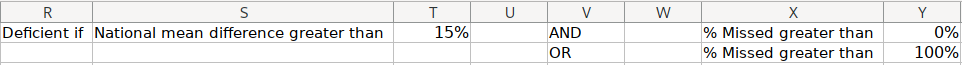
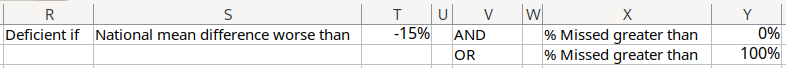
Fix ITE deficient area calculation
The comparison was reversed, it was actually showing well-performing
areas.

diff --git a/ite_basic_missed_topics/ite/ite_section.py b/ite_basic_missed_topics/ite/ite_section.py
@@ -317,7 +317,7 @@ class IteItem(object):
         worksheet.cell(
             row=row,
             column=self.CBY_DEFICIENT_COL,
-            value='=IF(OR(AND({}{} >= {}, {}{} >= {}), {}{} >= {}), "YES", "")'.format(
+            value='=IF(OR(AND({}{} <= {}, {}{} >= {}), {}{} >= {}), "YES", "")'.format(
                 get_column_letter(self.CBY_DIFF_COL),
                 row,
                 DEFICIENT_DIFFERENCE_COL,
@@ -332,7 +332,7 @@ class IteItem(object):
         worksheet.cell(
             row=row,
             column=self.CA1_DEFICIENT_COL,
-            value='=IF(OR(AND({}{} >= {}, {}{} >= {}), {}{} >= {}), "YES", "")'.format(
+            value='=IF(OR(AND({}{} <= {}, {}{} >= {}), {}{} >= {}), "YES", "")'.format(
                 get_column_letter(self.CA1_DIFF_COL),
                 row,
                 DEFICIENT_DIFFERENCE_COL,
@@ -347,7 +347,7 @@ class IteItem(object):
         worksheet.cell(
             row=row,
             column=self.CA2_DEFICIENT_COL,
-            value='=IF(OR(AND({}{} >= {}, {}{} >= {}), {}{} >= {}), "YES", "")'.format(
+            value='=IF(OR(AND({}{} <= {}, {}{} >= {}), {}{} >= {}), "YES", "")'.format(
                 get_column_letter(self.CA2_DIFF_COL),
                 row,
                 DEFICIENT_DIFFERENCE_COL,
@@ -362,7 +362,7 @@ class IteItem(object):
         worksheet.cell(
             row=row,
             column=self.CA3_DEFICIENT_COL,
-            value='=IF(OR(AND({}{} >= {}, {}{} >= {}), {}{} >= {}), "YES", "")'.format(
+            value='=IF(OR(AND({}{} <= {}, {}{} >= {}), {}{} >= {}), "YES", "")'.format(
                 get_column_letter(self.CA3_DIFF_COL),
                 row,
                 DEFICIENT_DIFFERENCE_COL,

diff --git a/ite_basic_missed_topics/ite/ite_excel.py b/ite_basic_missed_topics/ite/ite_excel.py
@@ -62,7 +62,7 @@ def write_xlsx_legend(worksheet):
     worksheet[DEFICIENT_DIFFERENCE_COL].offset(column=-2).value = "Deficient if"
     worksheet[DEFICIENT_DIFFERENCE_COL].offset(
         column=-1
-    ).value = "National mean difference greater than"
+    ).value = "National mean difference worse than"
     worksheet[DEFICIENT_DIFFERENCE_COL].value = DEFICIENT_DIFFERENCE
 
     worksheet[DEFICIENT_DIFFERENCE_MISSED_COL].offset(column=-3).value = "AND"

diff --git a/ite_basic_missed_topics/constants.py b/ite_basic_missed_topics/constants.py
@@ -22,7 +22,7 @@ MISSED_GOOD = 0.25
 MISSED_WARNING = 0.5
 MISSED_BAD = 0.75
 
-DEFICIENT_DIFFERENCE = 0.15
+DEFICIENT_DIFFERENCE = -0.15
 DEFICIENT_DIFFERENCE_MISSED = 0
 DEFICIENT_MISSED = 1
 

diff --git a/README.md b/README.md
@@ -33,7 +33,7 @@ coloring and the marks in the Deficient columns.
 
 If you expand the columns a bit, it shows that one is marked deficient if either:
 
-1. the difference from the national mean is greater than 15% and the % missed is greater than 0%
+1. the difference from the national mean is worse than -15% and the % missed is greater than 0%
 2. the % missed is 100%
 
 ![Deficient legend](static/deficient.png)
